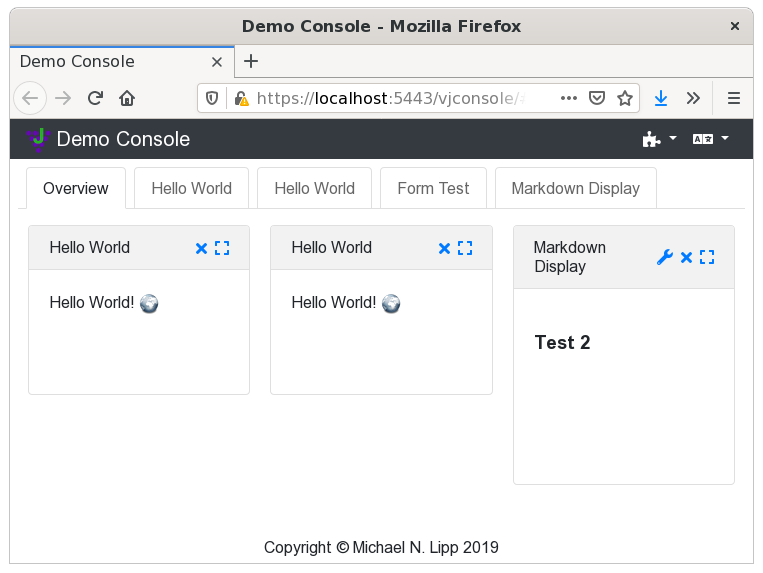
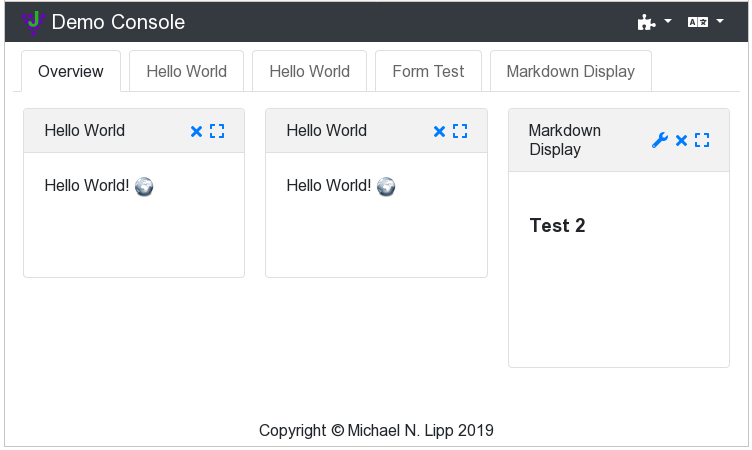
Focus on content.

diff --git a/README.md b/README.md
@@ -31,7 +31,7 @@ style and a large view that is supposed to fill the complete frame.
 Tabs or a menu in a side bar can be used to switch between
 the overview panel(s) and the large views of the different conlets. 
 
-<img src="README-pic1.png" width="80%" alt="Web Console Demo">
+<img src="README-pic1.png" width="60%" alt="Web Console Demo">
 
 Demo
 ----
